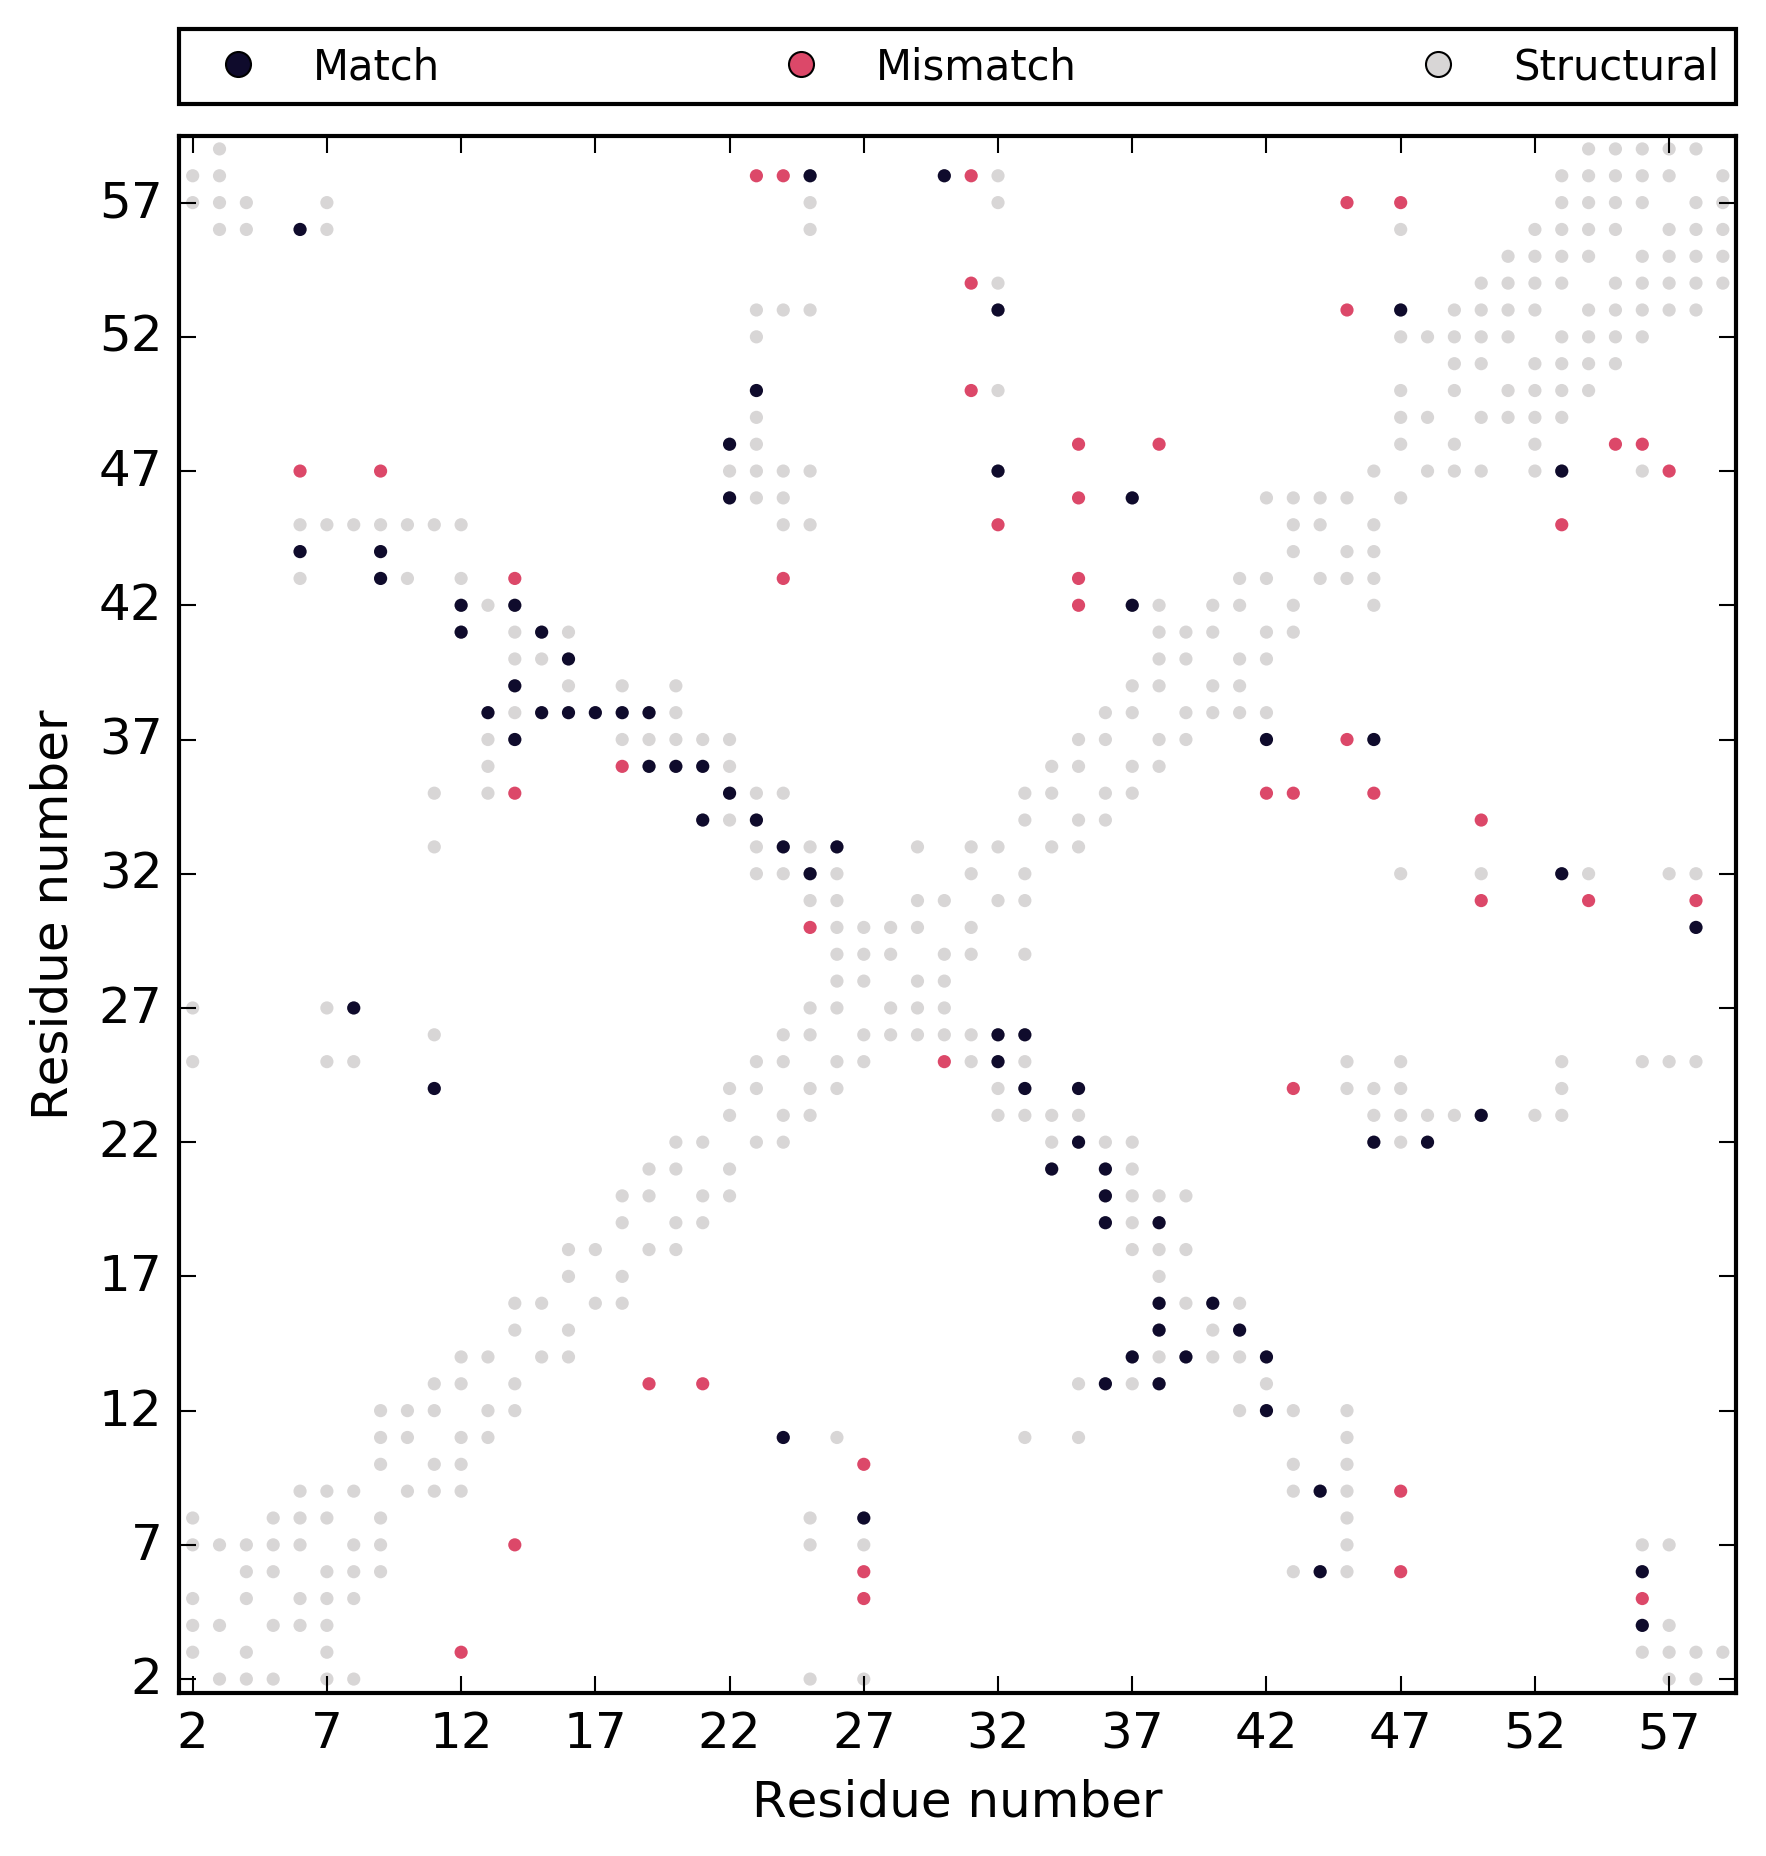
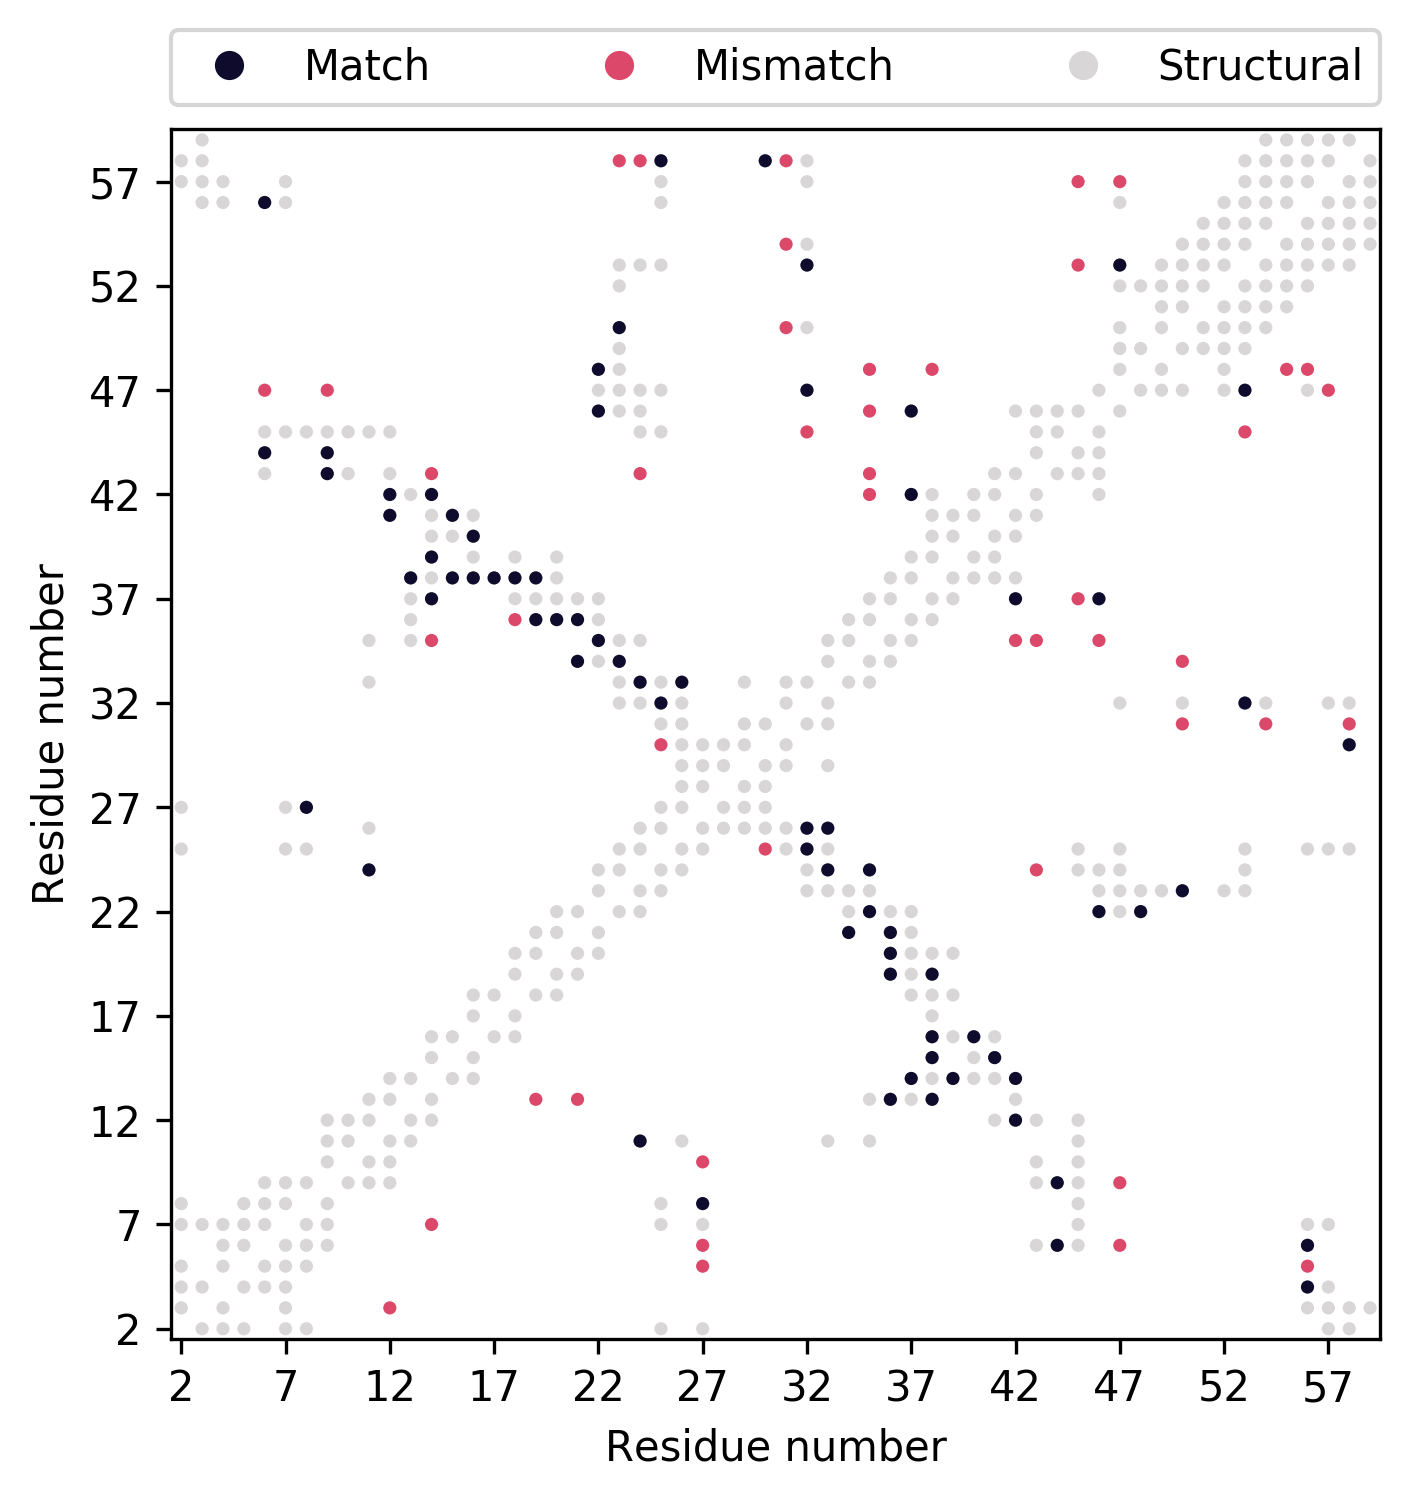
axis fixed in SequenceCoveragePlot

diff --git a/conkit/plot/SequenceCoveragePlot.py b/conkit/plot/SequenceCoveragePlot.py
@@ -107,6 +107,8 @@ class SequenceCoverageFigure(Figure):
         # Prettify the plot
         ax.set_xlim(residues[0], residues[-1])
         xticks = ax.get_xticks().astype(numpy.int64) + residues[0]
+        # Remove any excess xticks
+        xticks = numpy.delete(xticks, [i for i, t in enumerate(xticks) if t > residues[-1]])
         ax.set_xticks(xticks)
         ax.set_xticklabels(xticks)
 
@@ -120,3 +122,4 @@ class SequenceCoverageFigure(Figure):
         fig.tight_layout()
 
         fig.savefig(self.file_name, bbox_inches='tight', dpi=self.dpi)
+
